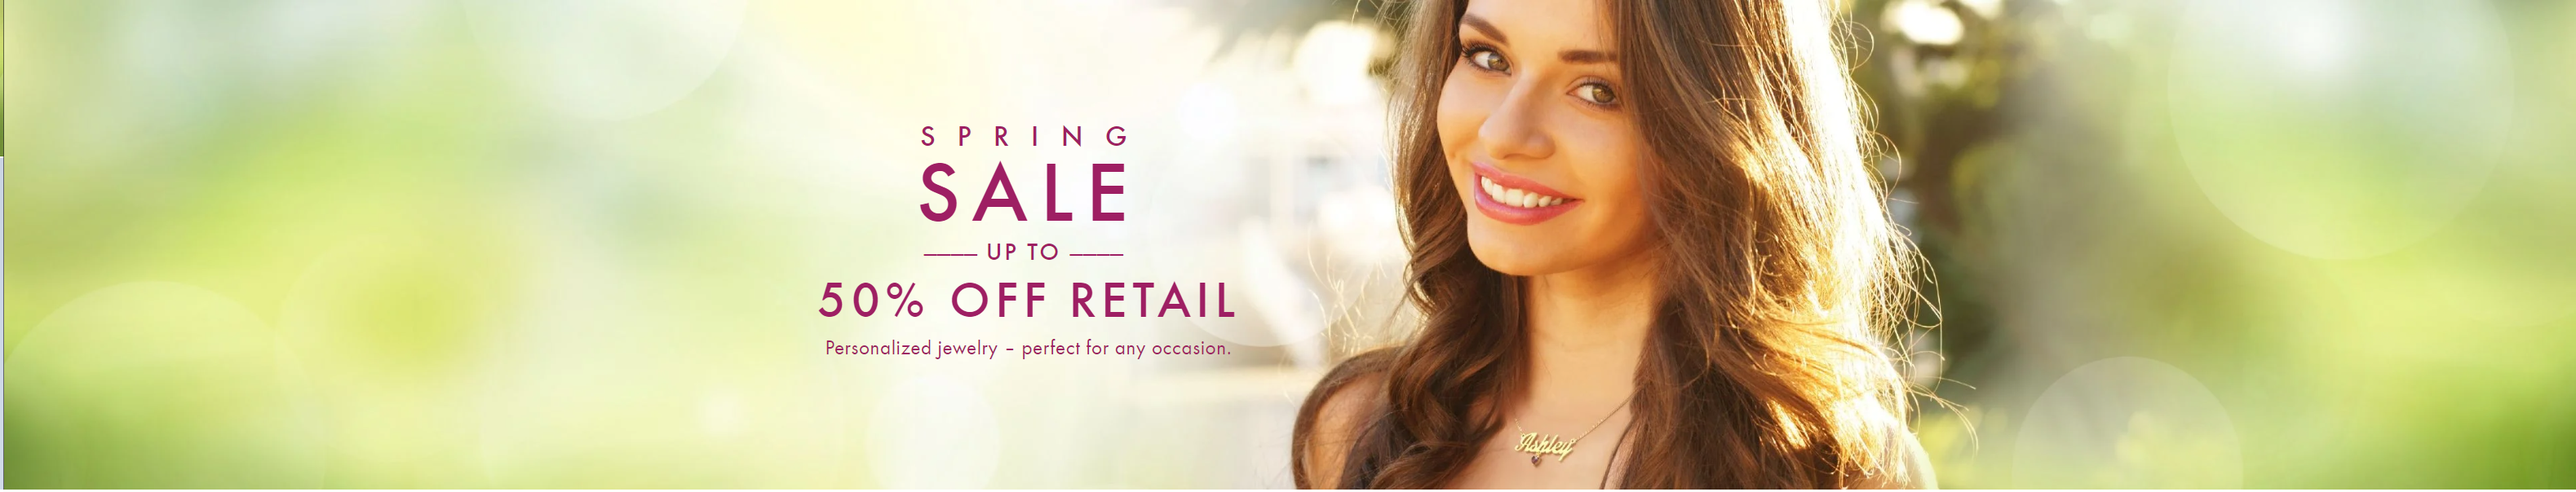
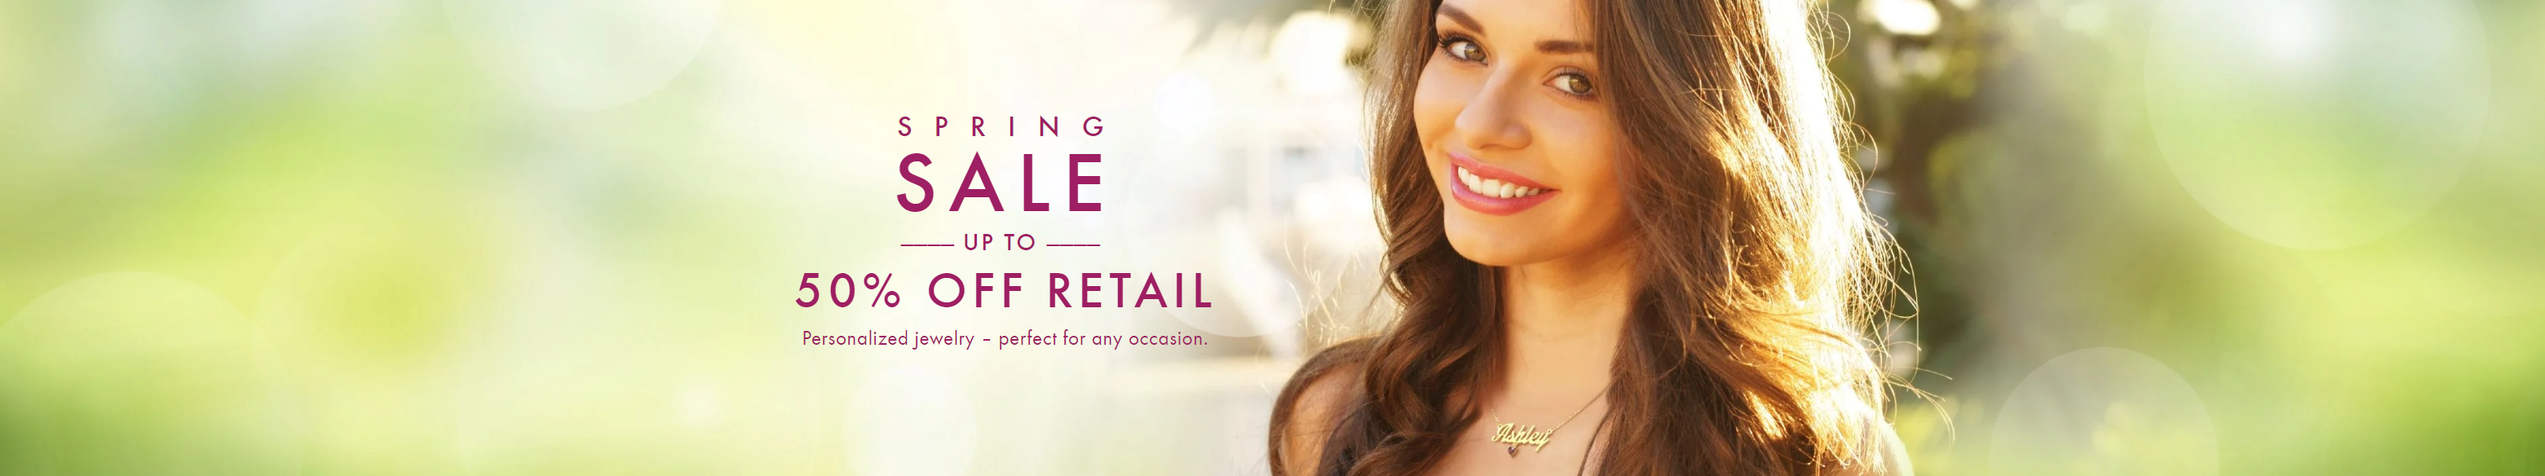
new changes

diff --git a/p2-frontend/src/app/pages/cart/cart.component.html b/p2-frontend/src/app/pages/cart/cart.component.html
@@ -17,7 +17,7 @@
                         <td>{{orderItem.product.description}}</td>
                         <td>{{orderItem.product.inventory}}</td>
                         <td>{{orderItem.product.name}}</td>
-                        <td>{{orderItem.product.price}}</td>
+                        <td>{{orderItem.product.price  | currency}}</td>
                         <td>{{orderItem.product.productId}}</td>
                         <td>{{orderItem.quantity}}</td>
                         <td><input (click)="removeProduct(this.orderItem)" type="submit" value="delete"></td>

diff --git a/p2-frontend/src/app/component/featured-products/featured-products.component.scss b/p2-frontend/src/app/component/featured-products/featured-products.component.scss
@@ -3,7 +3,7 @@
 @import "~swiper/css/pagination";
 .swiper {
   width: 100%;
-  height: 70%;
+  height: 50%;
 }
 
 .swiper-slide {

diff --git a/p2-frontend/src/app/component/landing-section1/landing-section1.component.css b/p2-frontend/src/app/component/landing-section1/landing-section1.component.css
@@ -1,0 +1,4 @@
+img {
+  width: 100%;
+  object-fit:fill;
+}
